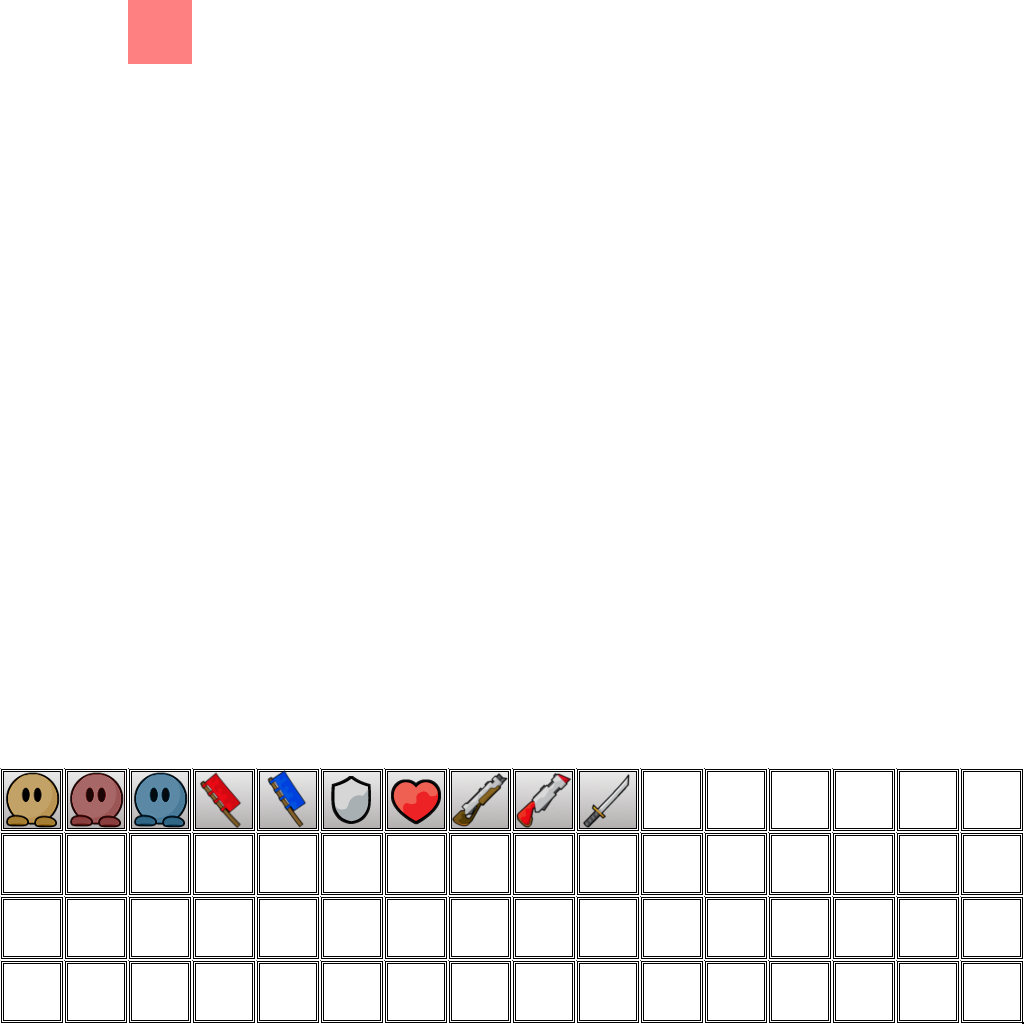
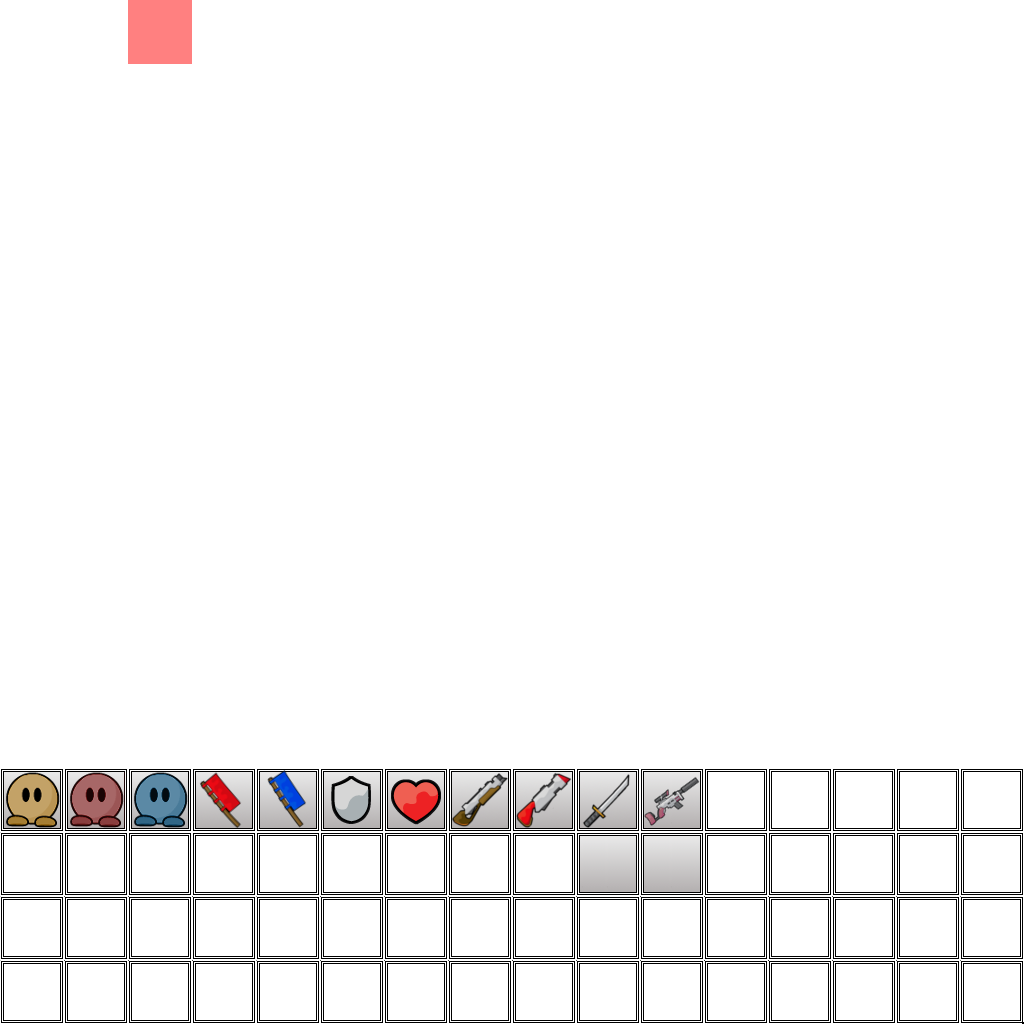
added the rifle to the maps and removed it from the starting inventory
git-svn-id: svn://svn.teeworlds.com/teeworlds/trunk@1257 d4db670b-5ed4-db11-af07-004063e9bb33

Changed region(s): [[0.5625, 0.75, 0.6875, 0.875]]

diff --git a/src/game/server/gs_server.cpp b/src/game/server/gs_server.cpp
@@ -854,8 +854,8 @@ void player::try_respawn()
 	weapons[WEAPON_GUN].got = true;
 	weapons[WEAPON_GUN].ammo = data->weapons[WEAPON_GUN].maxammo;
 
-	weapons[WEAPON_RIFLE].got = true;
-	weapons[WEAPON_RIFLE].ammo = -1;
+	/*weapons[WEAPON_RIFLE].got = true;
+	weapons[WEAPON_RIFLE].ammo = -1;*/
 	
 	active_weapon = WEAPON_GUN;
 	last_weapon = WEAPON_HAMMER;
@@ -1648,10 +1648,10 @@ void powerup::tick()
 		case POWERUP_WEAPON:
 			if(subtype >= 0 && subtype < NUM_WEAPONS)
 			{
-				if(pplayer->weapons[subtype].ammo < 10 || !pplayer->weapons[subtype].got)
+				if(pplayer->weapons[subtype].ammo < data->weapons[subtype].maxammo || !pplayer->weapons[subtype].got)
 				{
 					pplayer->weapons[subtype].got = true;
-					pplayer->weapons[subtype].ammo = min(10, pplayer->weapons[subtype].ammo + data->powerupinfo[type].amount);
+					pplayer->weapons[subtype].ammo = min(data->weapons[subtype].maxammo, pplayer->weapons[subtype].ammo + data->powerupinfo[type].amount);
 					respawntime = data->powerupinfo[type].respawntime;
 
 					// TODO: data compiler should take care of stuff like this

diff --git a/src/game/editor/ed_layer_tiles.cpp b/src/game/editor/ed_layer_tiles.cpp
@@ -145,8 +145,8 @@ void LAYER_TILES::brush_flip_x()
 		for(int x = 0; x < width/2; x++)
 		{
 			TILE tmp = tiles[y*width+x];
-			tiles[y*width+x] = tiles[y*width+x+width-1-x];
-			tiles[y*width+x+width-1-x] = tmp;
+			tiles[y*width+x] = tiles[y*width+width-1-x];
+			tiles[y*width+width-1-x] = tmp;
 		}
 
 	for(int y = 0; y < height; y++)

diff --git a/src/game/server/gs_game.cpp b/src/game/server/gs_game.cpp
@@ -65,6 +65,11 @@ bool gameobject::on_entity(int index, vec2 pos)
 		type = POWERUP_WEAPON;
 		subtype = WEAPON_GRENADE;
 	}
+	else if(index == ENTITY_WEAPON_RIFLE)
+	{
+		type = POWERUP_WEAPON;
+		subtype = WEAPON_RIFLE;
+	}
 	else if(index == ENTITY_POWERUP_NINJA)
 	{
 		type = POWERUP_NINJA;

diff --git a/src/game/g_mapitems.h b/src/game/g_mapitems.h
@@ -38,6 +38,7 @@ enum
 	ENTITY_WEAPON_SHOTGUN,
 	ENTITY_WEAPON_GRENADE,
 	ENTITY_POWERUP_NINJA,
+	ENTITY_WEAPON_RIFLE,
 	NUM_ENTITIES,
 	
 	TILE_AIR=0,
